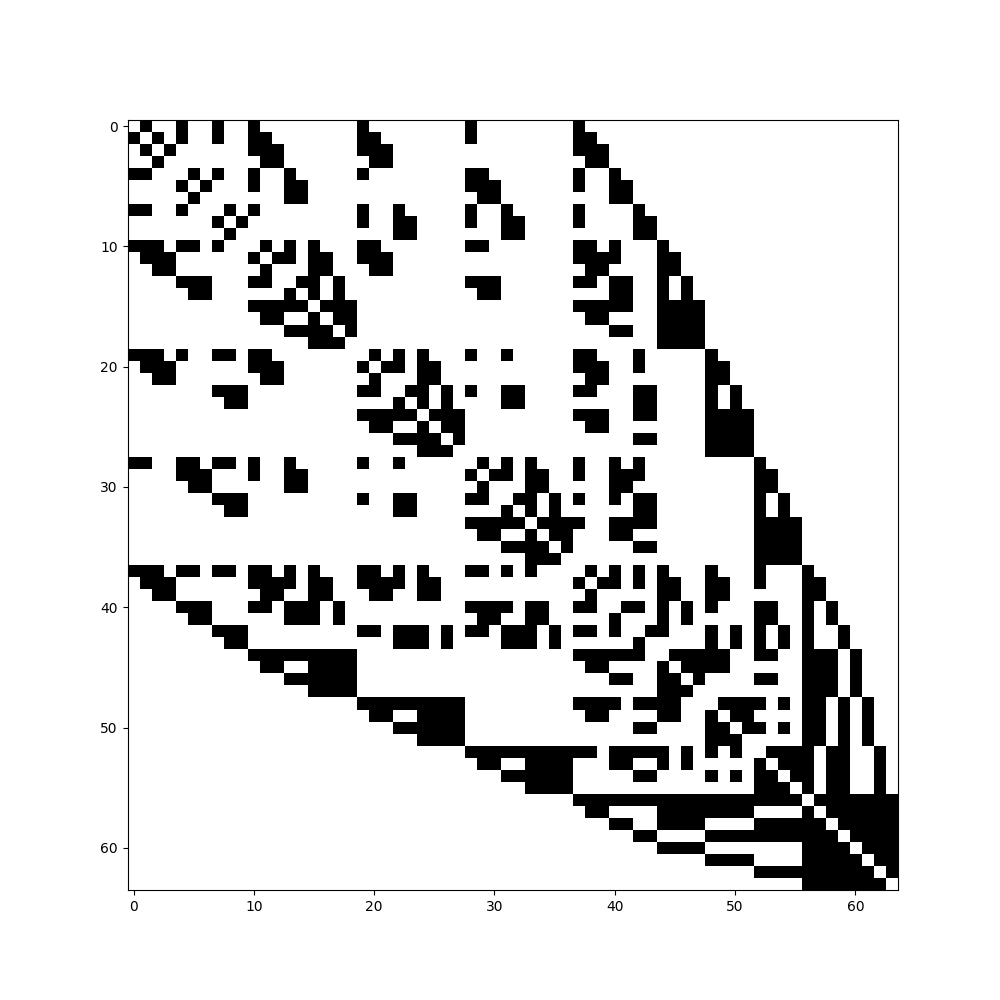
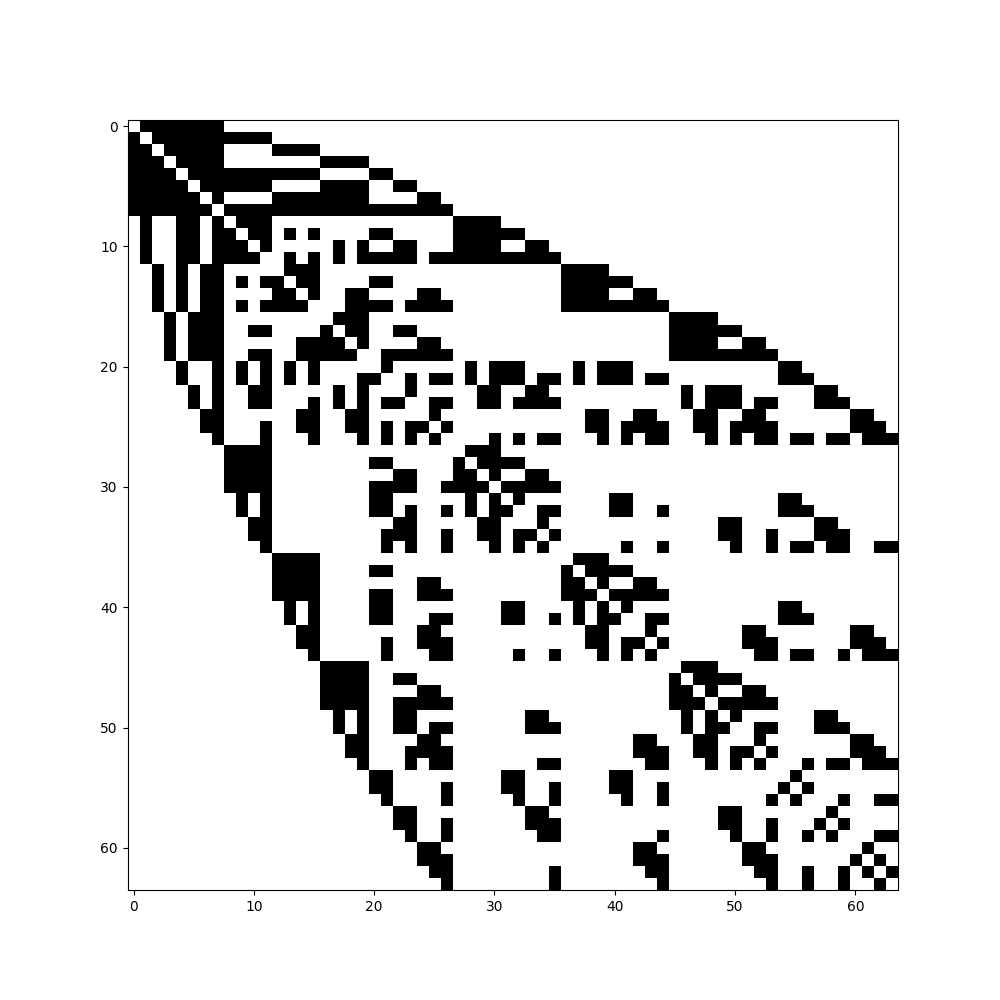
lab4

Changed region(s): [[0.124, 0.124, 0.899, 0.899], [0.124, 0.434, 0.155, 0.465]]

diff --git a/lab4/lab4.py b/lab4/lab4.py
@@ -1,3 +1,4 @@
+import random
 import matplotlib.pyplot as plt
 from scipy.sparse import lil_matrix, csr_matrix
 from scipy.sparse import lil_matrix, csr_matrix, csgraph
@@ -109,19 +110,26 @@ def plot_binary_matrix(matrix, x):
 
 def apply_permutation(matrix, permutation):
     n = len(matrix)
-    permuted_matrix = np.zeros((n, n))
+    permuted_matrix = np.zeros((n, n), dtype=type(matrix[0][0]))
 
     for i in range(n):
         for j in range(n):
-            permuted_matrix[i][j] = matrix[permutation[i]][permutation[j]]
+            permuted_matrix[i, j] = matrix[permutation[i]][permutation[j]]
 
     return permuted_matrix
 
 
 for k in range(2, 5):
     matrix = generate_3d_grid_matrix(k)
-    m = ReorderingSSM(matrix)
-    r = m.RCM()
-    permuted_matrix = apply_permutation(matrix, r)
     plot_binary_matrix(matrix, f"matrix{k}")
+    m = ReorderingSSM(matrix)
+    r = m.CM()
+    permuted_matrix = apply_permutation(matrix, r)
+
     plot_binary_matrix(permuted_matrix, f"permutated_matrix{k}")
+
+    m = ReorderingSSM(matrix)
+    r_rev = m.RCM()
+    reversed_permuted_matrix = apply_permutation(matrix, r_rev)
+    plot_binary_matrix(reversed_permuted_matrix,
+                       f"reversed_permutated_matrix{k}")
